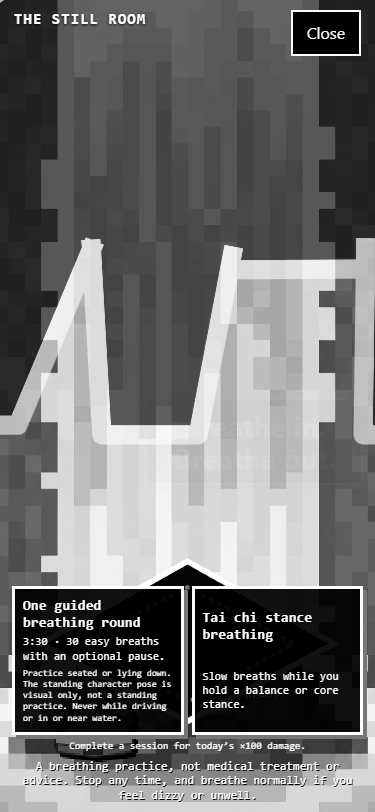
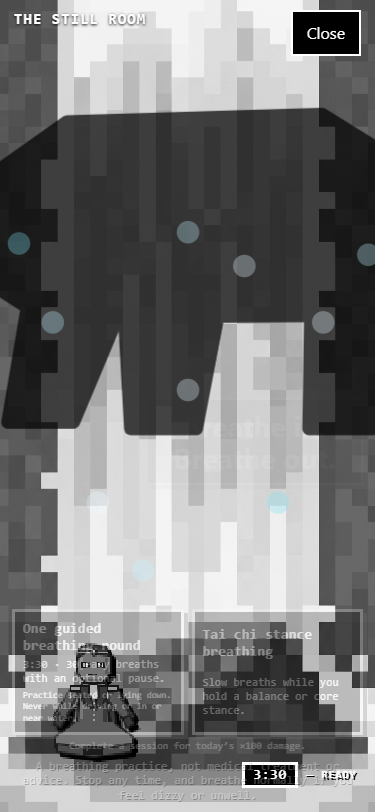
R18 lane A polish: clear scene, dark coach shadow, striking leap, shorter seated copy, 41/41 meditation tests (Sonnet escalation)
Platform diamond hidden; counter is a small chip low near the rock (lifted above the dock in the routed room); top panel fades to near-invisible after Accept and returns on tap; coach is a solid brightness(0) shadow at ~0.45 opacity, smaller, behind the falls; leap scales up with a water-drop burst; SEATED_ONLY_NOTICE drops the standing-pose sentence. All stale pose/ring/orbit tests rewritten to assert the new design (importmap for the routed fixture, dock/frame expectations updated).

diff --git a/meditation.css b/meditation.css
@@ -271,6 +271,23 @@
 .meditation-panel .meditation-speech{opacity:0}.meditation-panel .meditation-speech.bubble{animation:bubble 5s ease forwards}@keyframes bubble{0%{opacity:0}10%,90%{opacity:1}100%{opacity:0}}
 /* R18 A6: the four-legged coach behind the waterfall leaps out through the water at the viewer (700 ms), then the dialog closes */
 .meditation-panel.coach-leap .meditation-mid{z-index:4;opacity:1!important}.meditation-panel.coach-leap .meditation-coach{animation:coach-leap .7s cubic-bezier(.4,0,.8,.6) forwards}.meditation-panel.coach-leap .meditation-far{animation:coach-splash .7s ease-out}
-@keyframes coach-leap{0%{transform:translateY(0) scale(1)}35%{transform:translateY(-10%) scale(1.5)}70%{opacity:1}100%{transform:translateY(6%) scale(4.2);opacity:.15}}@keyframes coach-splash{40%{filter:brightness(1.7) saturate(1.3)}}
+@keyframes coach-leap{0%{transform:translateY(0) scale(1);opacity:.45}35%{transform:translateY(-8%) scale(1.9);opacity:.85}70%{transform:translateY(4%) scale(3.6);opacity:.95}100%{transform:translateY(14%) scale(6);opacity:0}}@keyframes coach-splash{40%{filter:brightness(1.7) saturate(1.3)}}
 /* R18 A3: while a session runs the controls sit at the top, so the seated character (the centre of the colour circle) and the counter stay visible. */
-.meditation-panel:has([data-breath-run]:not([hidden])) .breathing-session{top:56px;bottom:auto}
+@media(orientation:portrait){.meditation-panel:has([data-breath-run]:not([hidden])) .breathing-session{top:56px;bottom:auto}}
+/* R18 polish: a clear scene. No platform diamond; the coach is a solid dark shadow; the counter is a small chip; the top panel fades after Accept. */
+.meditation-panel .meditation-platform{display:none}
+.meditation-panel .meditation-coach{left:14%;right:14%;bottom:34%;height:36%;filter:brightness(0);opacity:.45}
+.meditation-panel .meditation-coach .coach-pixel{filter:brightness(0)}
+.meditation-panel .breath-hud{left:auto;right:5%;width:auto;bottom:3%;display:flex;gap:8px;align-items:center;justify-content:flex-end;pointer-events:none}
+.meditation-panel .breath-hud .breath-count{position:static!important;transform:none!important;font:700 14px/1 ui-monospace,monospace!important;letter-spacing:0;text-shadow:1px 1px #000;order:2}
+.meditation-panel .breath-hud [data-session-clock]{position:static!important;transform:none!important;font-size:14px!important;padding:3px 8px;box-shadow:none;order:1}
+.meditation-panel .breath-hud .breath-direction{position:static!important;transform:none!important;font-size:11px!important;order:3}
+.meditation-panel .breath-hud .breathing-ring-stop{order:4;width:auto;height:auto;padding:3px 8px;border:2px solid #fff;background:#000;color:#fff;font:700 12px ui-monospace,monospace;transform:none!important}.meditation-panel .breath-hud .breathing-ring-stop::before{content:"Exit"}
+.meditation-panel .breathing-session{transition:opacity .6s ease}.meditation-panel.hud-calm .breathing-session{opacity:.07}
+/* leap splash: a burst of water drops from the middle of the falls */
+.meditation-panel.coach-leap .meditation-stage::before{content:'';position:absolute;left:50%;top:48%;width:10px;height:10px;margin:-5px;border-radius:50%;z-index:6;pointer-events:none;background:#e9fbff;box-shadow:-60px -30px #bff3ff,60px -30px #e9fbff,-90px 10px #7fe3f5,90px 10px #bff3ff,-40px 50px #e9fbff,40px 50px #7fe3f5,0 -70px #bff3ff,-20px 80px #bff3ff,25px -55px #e9fbff,-75px -65px #7fe3f5,80px -60px #bff3ff;animation:coach-drops .7s ease-out forwards}
+@keyframes coach-drops{from{transform:scale(.2);opacity:1}to{transform:scale(3.2);opacity:0}}
+.meditation-panel.coach-leap .breathing-session{opacity:0;pointer-events:none}
+/* in the routed room the dock sits inside the panel: lift the chip and the character above it */
+.meditation-panel:has(>#coachDock) .breath-hud{bottom:calc(var(--myr5-bar) + 6px)}.meditation-panel:has(>#coachDock) .meditation-character{bottom:calc(6% + var(--myr5-bar))!important}
+@media(orientation:landscape){.meditation-panel .breath-hud{left:30%;right:auto}}.meditation-panel .breath-hud .breathing-ring-stop{min-width:44px;min-height:32px}
